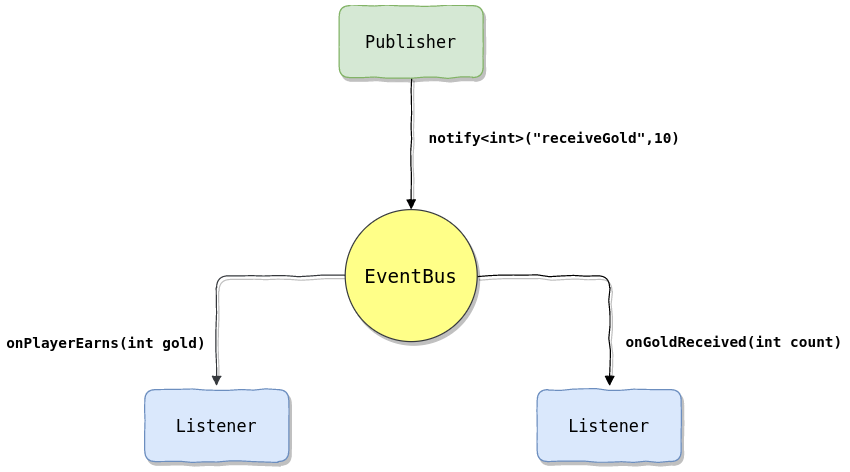
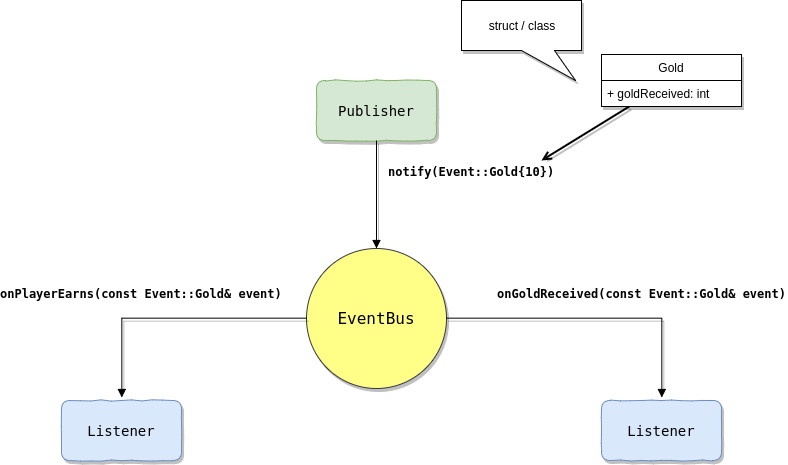
Update README

Changed region(s): [[0.0, 0.0, 1.0, 1.0], [0.6701, 0.0, 0.7614, 0.1806], [0.6091, 0.0301, 0.7005, 0.0903]]

diff --git a/README.md b/README.md
@@ -20,32 +20,68 @@ EventBus main goals:
 - Easy to use
 - Strongly typed
 - Free
+- tiny (~15 KB)
 - Decouples notification senders and receivers
 
 # Usage
 
-Notify by Event object:
+0. Store bus
+
 ```cpp
+// store it in controller / singleton / std::sharted_ptr whenever you want
 Dexode::EventBus bus;
-Dexode::Event<int> simpleEvent{"simple"};
-//...
-bus.notify(simpleEvent, 2);//Everyone who listens will receive this notification.
 ```
 
-Notify without Event object:
+1. Define events
+
 ```cpp
-Dexode::EventBus bus;
-//...
-bus.notify<int>("simple", 2);//Everyone who listens will receive this notification.
+namespace Event // optional namespace
+{
+	struct Gold
+	{
+		int goldReceived = 0;
+	};
+	
+	struct OK {}; // Simple event when user press "OK" button
+}
+```
+
+2. Subscribe
+
+```cpp
+// ...
+bus.listen<Event::Gold>
+			([](const auto& event) // listen with lambda
+			{
+				std::cout << "I received gold: " << event.goldReceived << "!" << std::endl;
+			});
+			
+HudLayer* hudLayer;
+// Hud layer will receive info about gold
+bus.listen<Event::Gold>(std::bind(&HudLayer::onGoldReceived,hudLayer,std::placeholders::_1));
+```
+
+3. Notify
+
+```cpp
+//Inform listeners about event
+bus.notify(Event::Gold{12}); // 1 way
+
+bus.notify<Event::Gold>({12}); // 2 way
+
+Event::Gold myGold{12};
+bus.notify(myGold); // 3 way
 ```
 
 Lambda listener:
 ```cpp
+struct SampleEvent {};
 Dexode::EventBus bus;
 //...
-int token = bus.listen<int>("simple", [](int value) // register listener
+int token = bus.listen<SampleEvent>([](const SampleEvent& event) // register listener
 {
 });
+
 //If we want unlisten exact listener we can use token for it
 bus.unlistenAll(token);
 ```
@@ -54,13 +90,13 @@ Listener is identified by `token`. Token is returned from EventBus::listen metho
 We can register multiple listeners on one token:
 ```cpp
 Dexode::EventBus bus;
-Dexode::Event<int> event{"simple"};
+struct SampleEvent {};
 //...
-int token = bus.listen(event, [](int value) // register listener
+int token = bus.listen<SimpleEvent>([](const auto& event) // register listener
 {
 });
 
-bus.listen(token, event, [](int value) // another listener
+bus.listen<SimpleEvent>(token, [](const auto& event) // another listener
 {
 });
 
@@ -72,14 +108,14 @@ It is useful when we want to have multiple listeners in one class. So above exam
 
 ```cpp
 Dexode::EventBus bus;
-Dexode::Event<int> event{"simple"};
+struct SampleEvent {};
 Dexode::EventCollector collector{&bus};
 //...
-collector.listen(event, [](int value) // register listener
+collector.listen<SampleEvent>([](const SampleEvent& event) // register listener
 {
 });
 
-collector.listen(event, [](int value) // another listener
+collector.listen<SampleEvent>([](const SampleEvent& event) // another listener
 {
 });
 
@@ -91,18 +127,18 @@ Or as component of class:
 class Example
 {
 public:
-	Example(Dexode::EventBus& bus)
-			: _collector{&bus}
+	Example(const std::shared_ptr<Dexode::EventBus>& bus)
+			: _collector{bus}
 	{
-		_collector.listen<int>("event1", std::bind(&Example::onEvent1, this, std::placeholders::_1));
-		_collector.listen<std::string>("event2", std::bind(&Example::onEvent2, this, std::placeholders::_1));
+		_collector.listen<SimpleEvent>(std::bind(&Example::onEvent1, this, std::placeholders::_1));
+		_collector.listen<OtherEvent>(std::bind(&Example::onEvent2, this, std::placeholders::_1));
 	}
 
-	void onEvent1(int value)
+	void onEvent1(const SimpleEvent& event)
 	{
 	}
 
-	void onEvent2(std::string value)
+	void onEvent2(const OtherEvent& event)
 	{
 	}
 
@@ -111,7 +147,7 @@ private:
 };
 
 //EventCollector sample
-Dexode::EventBus bus;
+std::shared_ptr<Dexode::EventBus> bus;
 Example ex{bus};
 //...
 bus.notify<int>("event1", 2);
@@ -128,21 +164,18 @@ ADD_EXECUTABLE(MyExecutable
 		main.cpp
 		)
 
-SET_TARGET_PROPERTIES(MyExecutable PROPERTIES
-		CXX_STANDARD 14
-		CXX_STANDARD_REQUIRED YES
-		)
-
 TARGET_LINK_LIBRARIES(MyExecutable PUBLIC Dexode::EventBus)
 ```
 
 Also if you want you can install library and add it at any way you want.  
 Eg.
 ```commandline
-cmake -DCMAKE_INSTALL_PREFIX=./install ..
+mkdir Release && cd Release
+cmake -DCMAKE_BUILD_TYPE=Release -DCMAKE_INSTALL_PREFIX=./install ..
 make && make install
 ```
 
+Now in `Release/install` library is placed. 
 
 # Performance
 I have prepared some performance results. You can read about them [here](performance/README.md)  
@@ -158,10 +191,10 @@ checkNotifyFor10kListenersWhenNoOneListens_CCNotificationCenter     127388 ns   
 
 # Future plans
 
-- Thread safe EventBus
-- Verbose messages for easy debugging
-- Fix removing/adding listeners during other notification
 - Write more and better tests
+- Thread safe EventBus ?
+- Verbose messages for easy debugging ?
+- Generating graph flow ?
 - ...
 
 # Thanks to
